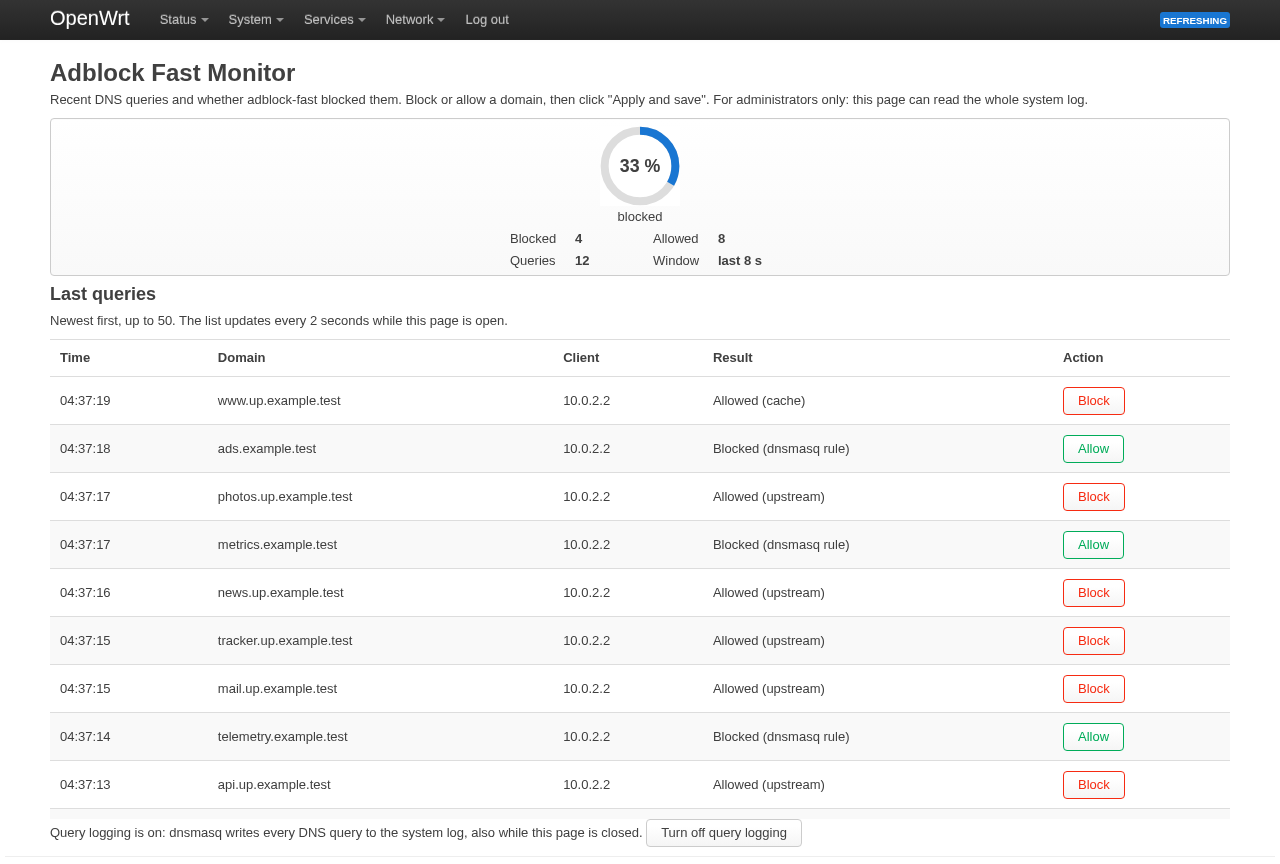
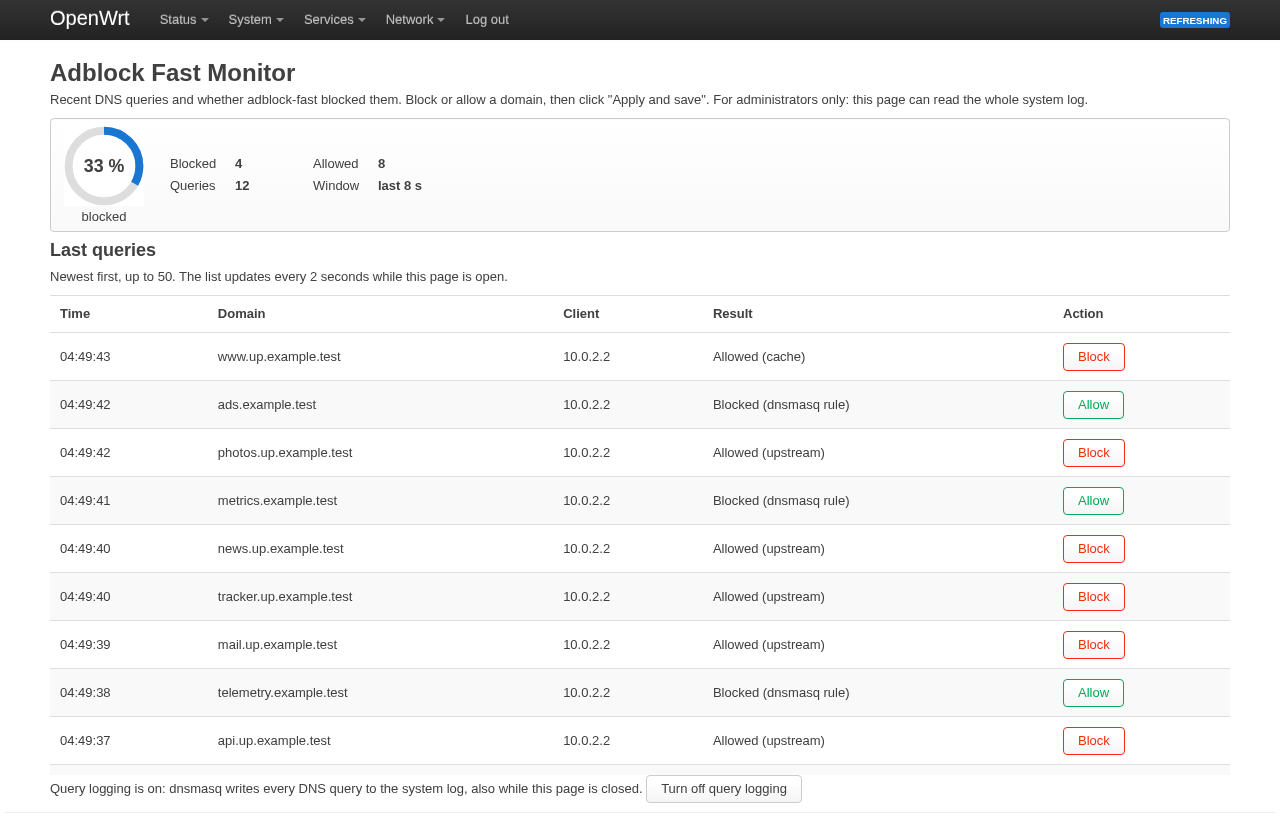
docs: evidence for the statistics panel (gate on 91077491)
Guest + browser 18/18 files and 45/45 specs, T22, T30 30/30, release
self-test 16/16 and the hvf P0 run of record (all budgets PASS) on the
artifact built from c60da13; screenshots from the same artifact.

diff --git a/docs/test-traceability.md b/docs/test-traceability.md
@@ -11,9 +11,9 @@ the repository.
 
 | Item | Value |
 | --- | --- |
-| Source | `0ae7490` (the simplified UI, merged into `main`) |
-| Artifact | `.local-validation/artifacts/20261112T213735Z-1/package.apk` |
[1 lines of base64/hex data omitted]
+| Source | `c60da13` (the simplified UI with the statistics panel) |
+| Artifact | `.local-validation/artifacts/20261113T044122Z-1/package.apk` |
[1 lines of base64/hex data omitted]
 | Functional guest | OpenWrt 25.12.6 x86/64, stock image + adblock-fast 1.2.4-r4, QEMU TCG in Docker on an Apple-silicon Mac |
 | P0 guest (run of record) | OpenWrt 25.12.6 armsr-armv8 + adblock-fast 1.2.4-r4, QEMU with hvf acceleration on the same Mac |
 | Date | 2026-11-12 |
@@ -30,11 +30,11 @@ feature evidence.
 | Node unit (real `querylog.js`, `model.js`, perf gate) | behavioural | `npm run test:unit` | 130/130 pass; coverage lines 100 %, branches 96.7 % | n/a |
 | ucode (real modules and rpcd plugin) | behavioural | `npm run test:ucode` | 7/7 files pass | n/a |
 | BusyBox ash | behavioural | `npm run test:shell` | 1/1 file pass | n/a |
-| Guest + browser | behavioural | `npm run verify:guest -- --browser PKG.apk` | 18/18 guest files, 444 checks, 0 `not ok`; Playwright 45/45 (install spec runs separately) | `qemu/runs/20261112T214536Z-1-31759` |
-| T22 LuCI install from a signed feed | behavioural | `scripts/release/verify-luci-install.sh PKG.apk` | pass (Playwright 1/1) | `qemu/runs/20261112T220725Z-1-27607` |
-| T30 upgrade api 2 → api 2 | behavioural | `scripts/release/verify-upgrade.sh PKG.apk` | 30/30 | `qemu/runs/20261112T221645Z-1-1711` |
+| Guest + browser | behavioural | `npm run verify:guest -- --browser PKG.apk` | 18/18 guest files, 444 checks, 0 `not ok`; Playwright 45/45 (install spec runs separately) | `qemu/runs/20261113T044959Z-1-21489` |
+| T22 LuCI install from a signed feed | behavioural | `scripts/release/verify-luci-install.sh PKG.apk` | pass (Playwright 1/1) | `qemu/runs/20261113T054621Z-1-13623` |
+| T30 upgrade api 2 → api 2 | behavioural | `scripts/release/verify-upgrade.sh PKG.apk` | 30/30 | `qemu/runs/20261113T055450Z-1-14381` |
 | Release signing (throwaway key) | behavioural | `scripts/release/selftest.sh WORKDIR PKG.apk` (linux/amd64 container) | 16/16 | n/a |
-| T26 P0 | behavioural | `ABFM_PERF_GUEST=armsr-hvf npm run test:performance:measure -- PKG.apk` | PASS, all budgets (below) | `perf/20261112T221743Z-98497` |
+| T26 P0 | behavioural | `ABFM_PERF_GUEST=armsr-hvf npm run test:performance:measure -- PKG.apk` | PASS, all budgets (below) | `perf/20261113T051049Z-18103` |
 
 Not run here: the GitHub workflows (Actions are disabled until go-live),
 mutation testing (`npm run test:mutation`, last run by its owner at 87.6 %
@@ -47,7 +47,7 @@ with break 85), and any real router.
 | Last queries with blocked/allowed result, parsed in the browser | T01–T04 (`test/unit/querylog*.test.mjs`), T09 (`dataplane-live.host.sh`), `ui-queries.spec.mjs` "real queries from a LAN client" | Node + guest + browser | pass |
 | Parser decisions unchanged against the frozen expected results | T05 differential oracle (`test/fixtures/logread/differential/`, one intentional difference: an in-flight query becomes `no-answer` on dnsmasq restart) | Node | pass |
 | Refresh as new logs arrive; gaps reported | T04, T29 (`ui-queries.spec.mjs` burst: missed count equals the id gap) | Node + browser | pass |
-| Statistics: % blocked as a donut in a LuCI card (text alternative) and one sentence, on the page and as a Status → Overview card | T04 `stats()`, `ui-model.test.mjs` "summary", `ui-queries.spec.mjs` "the blocked share is computed over the answered queries", T23 `ui-status.spec.mjs` | Node + browser | pass |
+| Statistics: one panel with the % blocked donut (text alternative) and Blocked / Allowed / Queries / Window figures, side by side on wide screens and stacked on narrow ones; a Status → Overview card | T04 `stats()`, `ui-model.test.mjs` "summary", `ui-queries.spec.mjs` "the blocked share is computed over the answered queries", T23 `ui-status.spec.mjs` | Node + browser | pass |
 | Simple list: newest 50 rows, Time / Domain / Client / Result (source) / Action, auto-refresh, no router queries; scrolls in its own box with a sticky header, also by keyboard | `ui-queries.spec.mjs` "real queries from a LAN client", "the list shows the newest 50 queries", "the list scrolls in its own box" | browser | pass |
 | Block / Allow buttons → staged (Undo, Remove, Discard) → one "Apply and save" → one rebuild, DNS verified | T12–T19 (`test/ucode/actions/*`, `actions-api.sh`, `actions-jobs.sh`, `actions-session.host.sh`, `actions-reboot.host.sh`), T24 (`ui-staging.spec.mjs`: Block then Allow flips the real DNS answer; failed job returns items to the bar) | ucode + guest + browser | pass |
 | Applied domains appear in luci-app-adblock-fast's Allowed / Blocked Domains | T24 `ui-upstream-lists.spec.mjs` (luci-app-adblock-fast 1.2.4-r4 installed on the guest) | browser | pass |

diff --git a/docs/performance.md b/docs/performance.md
@@ -321,26 +321,27 @@ re-run the gate on a run directory to regenerate `summary.json`.
 
 ### Run of record (release candidate)
 
-Run `perf/20261112T221743Z-98497`, armsr-armv8 under hvf, 3 repeats, APK
-`artifacts/20261112T213735Z-1` (sha256 `36dbec0a…`, built from `0ae7490`,
-the simplified UI with the donut, the scrolling list and the Client
-column): **PASS, all budgets**, no invalid window.
+Run `perf/20261113T051049Z-18103`, armsr-armv8 under hvf, 3 repeats, APK
+`artifacts/20261113T044122Z-1` (sha256 `91077491…`, built from `c60da13`,
+the simplified UI with the statistics panel): **PASS, all budgets**, no
+invalid window.
 
 | ID | Result | Noise (50 / 200 qps) |
 | --- | --- | --- |
-| P1 | 0 resident, 0 transient at boot or idle, rpcd RssAnon +208 KiB | |
-| P2 | page: 0 / 0 requests in 60 s hidden / closed (7 in the 12 s visible control); Status → Overview, this app's calls: 0 / 0 (3 in the 12 s visible control) | |
-| P3 | −0.23 / −0.73 pp (≤ 1 / 2); `log read` p95 2.0 ms (N = 316), 4.1–5.5 ms (N = 900) | CPU 0.1 / 0.2 pp |
-| P4 | p95 14.0 ms over 120 polls (≤ 20); the 60 polls of ≥ 810 entries alone: p95 23.6 ms | |
-| P5 | +0.02 / +0.10 ms (≤ 2) | 0.10–0.17 / 0.14–0.17 ms |
-| P6 | on − off dnsmasq +0.57 / +2.0, logd +0.37 / +1.13 pp (≤ 4 / 6); on − manual drop-in −0.03 / 0 pp | dnsmasq 0.13 / 1.23 pp |
-| P7 / P8 | `info` p95 0.74 ms; apply 0.72 / 1.64 ms, rpcd worst 11.0 ms | |
+| P1 | 0 resident, 0 transient at boot or idle, rpcd RssAnon +212 KiB | |
+| P2 | page: 0 / 0 requests in 60 s hidden / closed (6 in the 12 s visible control); Status → Overview, this app's calls: 0 / 0 (3 in the 12 s visible control) | |
+| P3 | −0.23 / −0.87 pp (≤ 1 / 2); `log read` p95 2.4 ms (N = 316), 4.9–5.6 ms (N = 900) | |
+| P4 | p95 11.8 ms over 120 polls (≤ 20); the 60 polls of ≥ 810 entries alone: p95 18.7 ms | |
+| P5 | +0.07 / +0.02 ms (≤ 2) | |
+| P6 | on − off dnsmasq +0.7 / +2.06, logd +0.37 / +1.17 pp (≤ 4 / 6); on − manual drop-in −0.03 / −0.03 pp | |
+| P7 / P8 | `info` p95 0.89 ms; apply 0.68 / 1.69 ms, rpcd worst 4.4 ms | |
 | P10 | boot 0, enable [1, 1, 1, 1, 1], save 0 | |
 
 Earlier candidates measured within the same noise: `perf/20261112T070716Z-38758`
 (`230ef0b`, the first page) P3 −0.17 / −0.70 pp, P4 p95 12.7 ms;
 `perf/20261112T201828Z-84202` (`201395d`, progress bar, no Client column)
-P3 −0.23 / −0.63 pp, P4 p95 14.2 ms. The Status → Overview section is not measured for P3: it reads the
+P3 −0.23 / −0.63 pp, P4 p95 14.2 ms; `perf/20261112T221743Z-98497`
+(`0ae7490`, donut card and sentence) P3 −0.23 / −0.73 pp, P4 p95 14.0 ms. The Status → Overview section is not measured for P3: it reads the
 log at most once per LuCI status poll (5 s), less often than the page
 (2 s), which P3 bounds.
 
